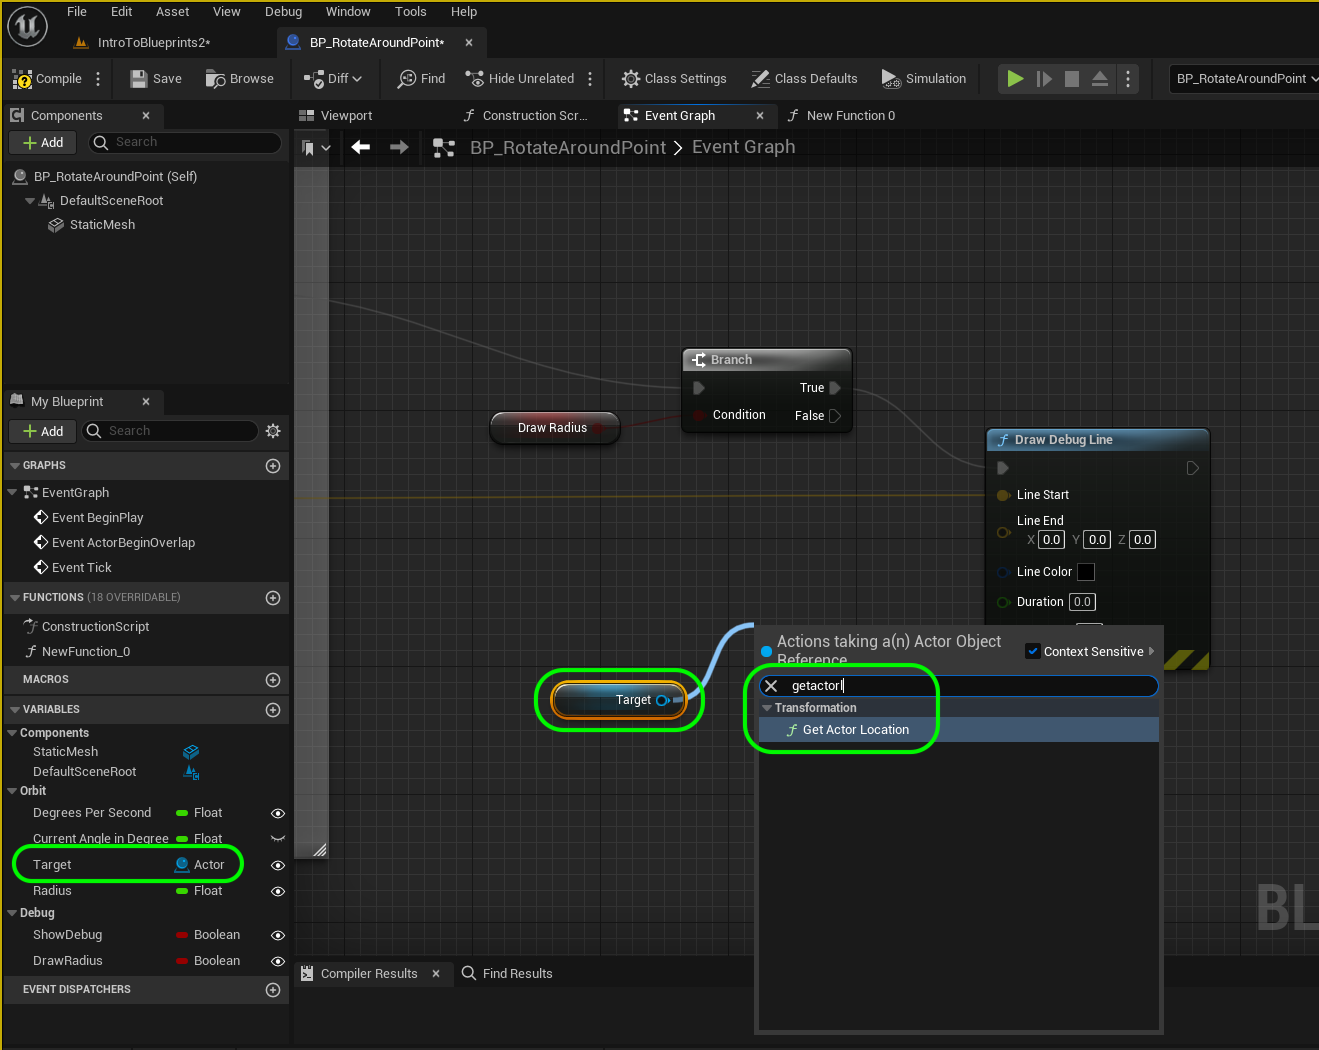
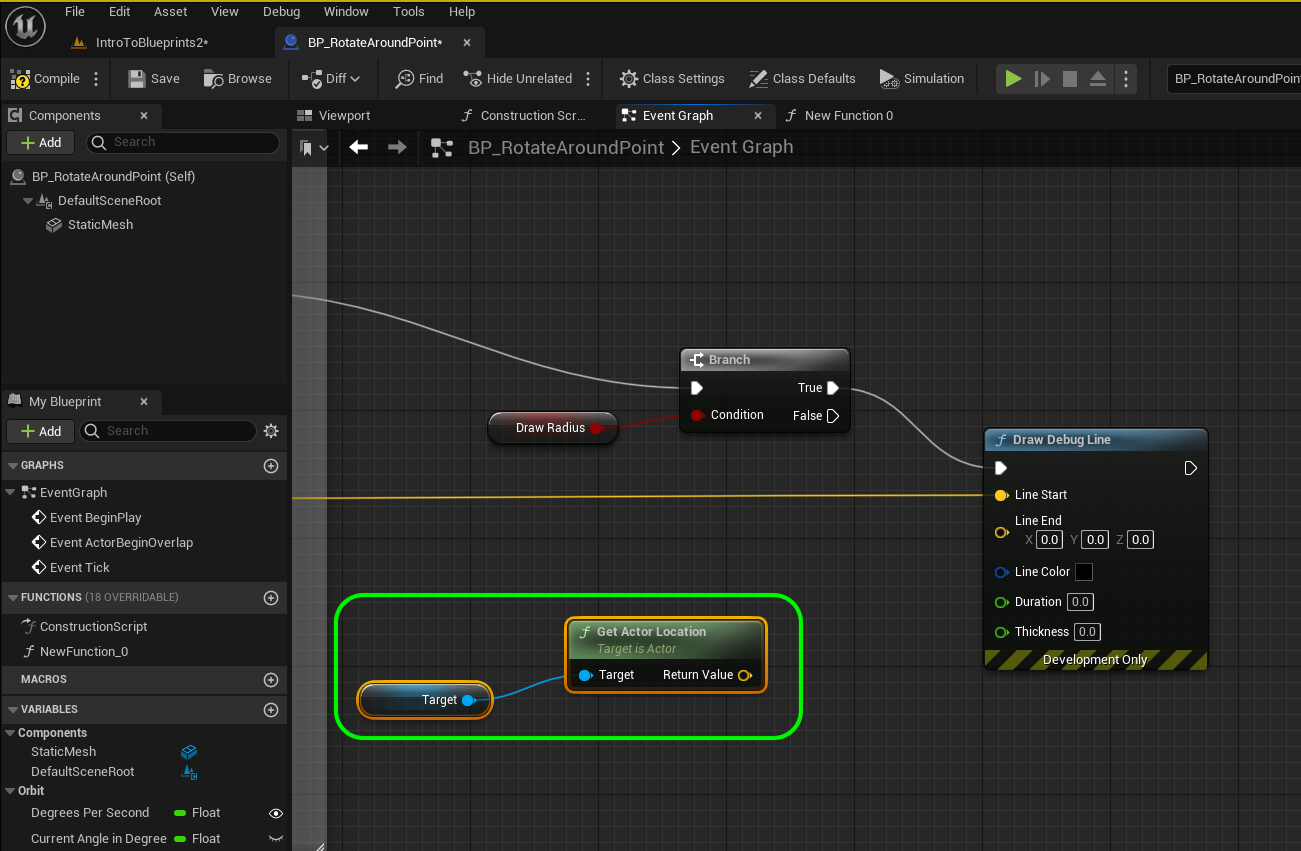
updating blueprints to ue5

diff --git a/orbiting-actors-iii/README.md b/orbiting-actors-iii/README.md
@@ -95,7 +95,7 @@ Right click on the open graph and select the node **Draw Debug Line**. *Grab* th
 
 ##### `Step 11.`\|`ITB`| :large_blue_diamond: :small_blue_diamond: 
 
-Now the line will go to the center of the box we are rotating around. *Grab* a get variable of **Target Rotate Around** and *attach* it to a **Get Actor Location** node.
+Now the line will go to the center of the box we are rotating around. *Grab* a get variable of **Target** and *attach* it to a **Get Actor Location** node.
 
 ![add target rotate around and attach to actdor location node](images/GetTargetLocadtionRm15.png)
 
@@ -104,15 +104,16 @@ Now the line will go to the center of the box we are rotating around. *Grab* a g
 
 ##### `Step 12.`\|`ITB`| :large_blue_diamond: :small_blue_diamond: :small_blue_diamond: 
 
+Connect the output **Execution** pin from the **Set Actor Location** node to the input pin of the **Branch** node:
+
+![attach execution pin from set actor location to branch](images/ConnectSetActorLocPinRm15.png)
 
 
 ![](../images/line2.png)
 
 ##### `Step 13.`\|`ITB`| :large_blue_diamond: :small_blue_diamond: :small_blue_diamond:  :small_blue_diamond: 
 
-Connect the output **Execution** pin from the **Set Actor Location** node to the input pin of the **Branch** node:
 
-![attach execution pin from set actor location to branch](images/ConnectSetActorLocPinRm15.jpg)
 
 ![](../images/line2.png)
 
